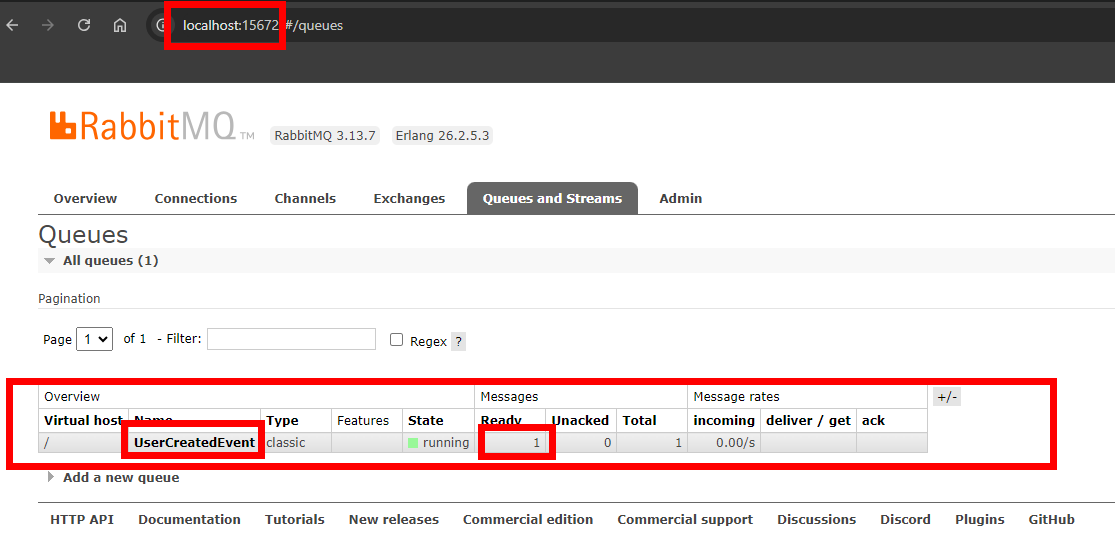
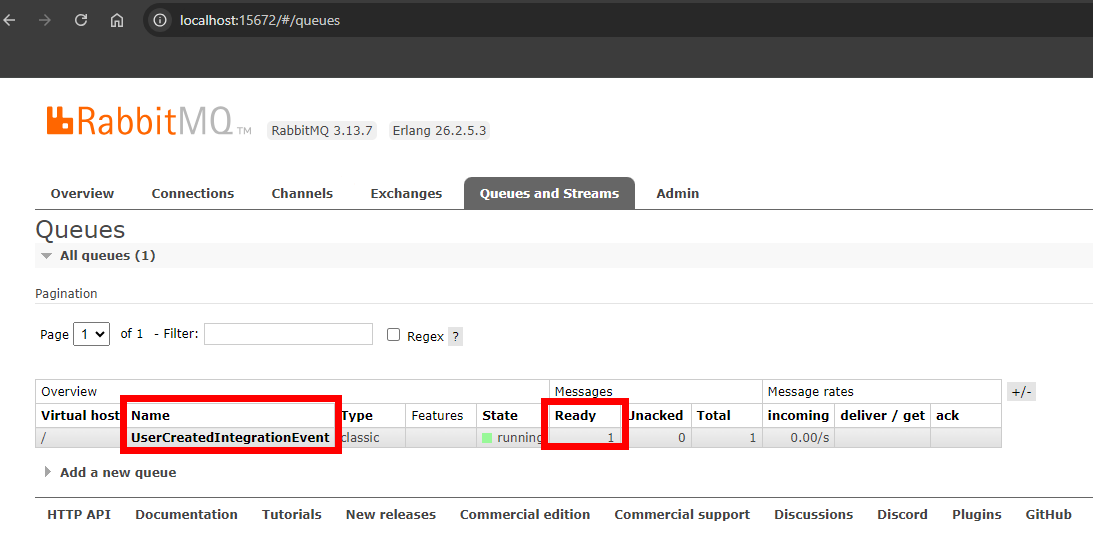
Integration Event

diff --git a/src/Account/Account.Application/UserCreatedEventHandler.cs b/src/Account/Account.Application/UserCreatedEventHandler.cs
@@ -1,5 +1,6 @@
 using System.Text.Json;
 using Account.Domain.Events;
+using Common.Library.IntegrationEvents;
 using Common.Library.Services;
 using MediatR;
 
@@ -15,10 +16,12 @@ public class UserCreatedEventHandler : INotificationHandler<UserCreatedEvent>
     }
 
     public Task Handle(UserCreatedEvent notification, CancellationToken cancellationToken)
-    {        
-        var message = JsonSerializer.Serialize(notification);
+    {
+        var integrationEvent = new UserCreatedIntegrationEvent(notification.UserId, DateTime.UtcNow);
 
-        _rabbitMQService.SendMessage(typeof(UserCreatedEvent).Name, message);
+        var message = JsonSerializer.Serialize(integrationEvent);
+
+        _rabbitMQService.SendMessage(typeof(UserCreatedIntegrationEvent).Name, message);
 
         return Task.CompletedTask;
     }

diff --git a/src/Common/Common.Library/IntegrationEvents/UserCreatedIntegrationEvent.cs b/src/Common/Common.Library/IntegrationEvents/UserCreatedIntegrationEvent.cs
@@ -1,0 +1,5 @@
+using Common.Library.Seedwork;
+
+namespace Common.Library.IntegrationEvents;
+
+public record UserCreatedIntegrationEvent(Guid UserId, DateTime CreatedDateTime) : IIntegrationEvent;

diff --git a/src/Common/Common.Library/Seedwork/IIntegrationEvent.cs b/src/Common/Common.Library/Seedwork/IIntegrationEvent.cs
@@ -1,0 +1,6 @@
+namespace Common.Library.Seedwork;
+
+public interface IIntegrationEvent
+{
+    DateTime CreatedDateTime { get; }
+}

diff --git a/doc/pages/D23.md b/doc/pages/D23.md
@@ -39,11 +39,55 @@
 
 ![https://ithelp.ithome.com.tw/upload/images/20241004/20168953Yk9AhewQP2.png](https://ithelp.ithome.com.tw/upload/images/20241004/20168953Yk9AhewQP2.png)
 
+## Domain Event 和 Integration Event
+
+我一開始在 Common.Library 內有做一個 Interface 叫做 `IDomainEvent`，為什麼是 DomainEvent 而不用 Event 就好？
+
+因為這裡還有一個重要的概念需要介紹：**Integration Event**。
+
+### 什麼是 Domain Event？
+
+**Domain Event** 是指在領域內發生的、具有業務意義的事件，代表已發生的事實。它通常在應用內部傳遞，解耦不同的業務邏輯，比如 `UserCreatedEvent` 表示用戶已經創建成功。
+
+### 什麼是 Integration Event？
+
+**Integration Event** 是一個會影響其他微服務、邊界上下文或外部系統的事件。這些事件會被推送到消息隊列，通知其他系統，從而觸發跨系統的副作用。例如，`UserCreatedIntegrationEvent` 會讓其他服務知道用戶已創建。
+
+### 兩者的區別
+
+- **Domain Event** 只在應用內部傳遞，用來解耦應用內部邏輯。
+- **Integration Event** 用於跨服務通信，通常會引發其他系統的動作。
+
+簡單來說，**Domain Event** 聚焦在單一領域內的業務事件，而 **Integration Event** 負責服務之間的集成與協作。
+
+### 建立 Integration Event
+
+我們先在 Common.Library 的 Seedwork 內建立 `IIntegrationEvent`
+
+```csharp
+namespace Common.Library.Seedwork;
+
+public interface IIntegrationEvent
+{
+    DateTime CreatedDateTime { get; }
+}
+```
+
+並且新增一個 `IntegrationEvents` 資料夾，在裡面實作我們今天的目標 `UserCreatedIntegrationEvent`
+
+```csharp
+using Common.Library.Seedwork;
+
+namespace Common.Library.IntegrationEvents;
+
+public record UserCreatedIntegrationEvent(Guid UserId, DateTime CreatedDateTime) : IIntegrationEvent;
+```
+
 ## Producer 實作
 
 ### MediatR
 
-我們這裡還是繼續利用 MediatR 當作服務內部的 Eventbus，之後再來實作 Handler 來實作 MQ 的 Producer。
+我們這裡還是繼續利用 MediatR 當作服務內部的 Eventbus 來傳遞 Domain Event，之後再來實作 Handler 來實作 MQ 的 Producer。
 
 先做 `UserCreatedEvent`，這裡的事件很單純，用 `record` 實作比較快
 
@@ -211,9 +255,11 @@ public class RabbitMQService : IDisposable
 ```csharp
 public Task Handle(UserCreatedEvent notification, CancellationToken cancellationToken)
 {        
-    var message = JsonSerializer.Serialize(notification);
+    var integrationEvent = new UserCreatedIntegrationEvent(notification.UserId, DateTime.UtcNow);
 
-    _rabbitMQService.SendMessage(typeof(UserCreatedEvent).Name, message);
+    var message = JsonSerializer.Serialize(integrationEvent);
+
+    _rabbitMQService.SendMessage(typeof(UserCreatedIntegrationEvent).Name, message);
 
     return Task.CompletedTask;
 }
@@ -242,17 +288,17 @@ services.AddSingleton<RabbitMQService>();
 
 建立一個 Emma Watson 的使用者
 
-![https://ithelp.ithome.com.tw/upload/images/20241004/20168953FX123NPu13.png](https://ithelp.ithome.com.tw/upload/images/20241004/20168953FX123NPu13.png)
+![https://ithelp.ithome.com.tw/upload/images/20241004/201689531xeWyd9nwB.png](https://ithelp.ithome.com.tw/upload/images/20241004/201689531xeWyd9nwB.png)
 
 ### RabbitMQ Management
 
-開啟瀏覽器到 http://localhost:15672/ 並輸入 `guest` / `guest` 來登入 RabbitMQ Management，到 `Queues and Streams` 可以看到 UserCreatedEvent 有一個 Message
+開啟瀏覽器到 http://localhost:15672/ 並輸入 `guest` / `guest` 來登入 RabbitMQ Management，到 `Queues and Streams` 可以看到 **UserCreatedIntegrationEvent** 有一個 Message
 
-![https://ithelp.ithome.com.tw/upload/images/20241004/20168953sz36aeLX1d.png](https://ithelp.ithome.com.tw/upload/images/20241004/20168953sz36aeLX1d.png)
+![https://ithelp.ithome.com.tw/upload/images/20241004/20168953lgIvLZ30bZ.png](https://ithelp.ithome.com.tw/upload/images/20241004/20168953lgIvLZ30bZ.png)
 
 進入這個 Queue 內點選 `Get Message(s)` 可以看到內容，與我們 Emma Watson 的 ID 一致
 
-![https://ithelp.ithome.com.tw/upload/images/20241004/20168953GegCpsbdfH.png](https://ithelp.ithome.com.tw/upload/images/20241004/20168953GegCpsbdfH.png)
+![https://ithelp.ithome.com.tw/upload/images/20241004/20168953WHt69ZPyNt.png](https://ithelp.ithome.com.tw/upload/images/20241004/20168953WHt69ZPyNt.png)
 
 ## 結語
 
